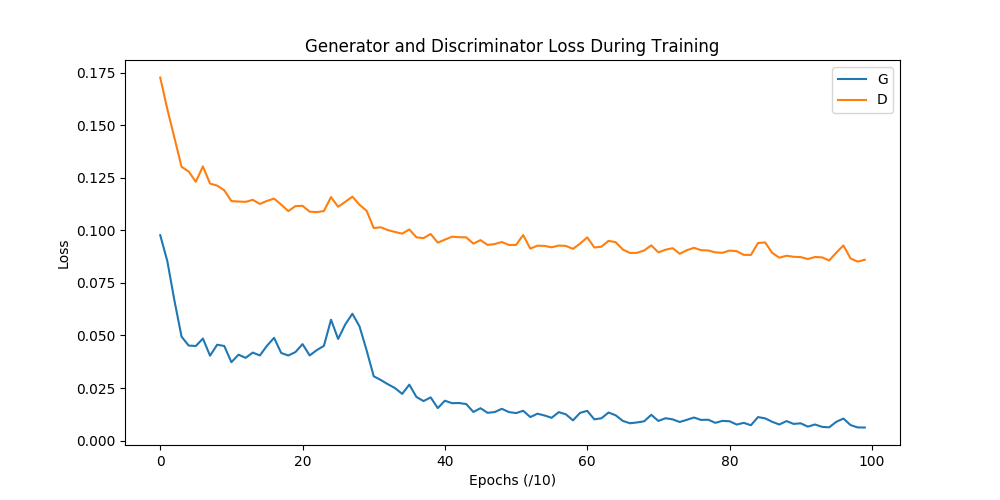
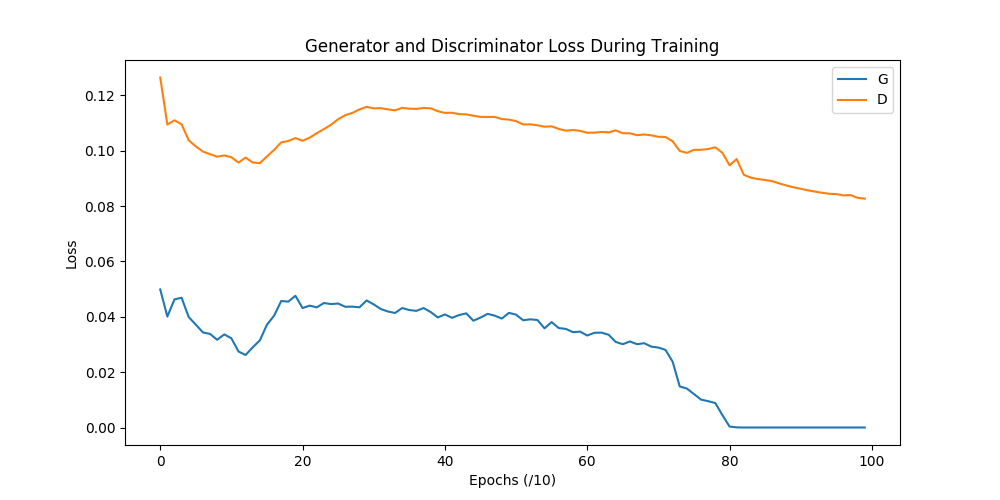
MàJ compte rendue

diff --git a/W5.md b/W5.md
@@ -69,24 +69,53 @@ Simplified Asynmétrique BEGAN
 Un réseau pour l'analyse (partie 1 de D), un réseau pour la génération (partager entre G et la seconde partie de D).
 
 __Résultats__ :
-  - BEGAN (gt-2): Image composée d'un unique jaune très claire (Bleu et vert à 255). 
+  - BEGAN : Image composée d'un unique jaune très claire (Bleu et vert à 255). 
 		Time=50m
 		
 __Conclusion__ :
   - Le code est à revoir.
   
-##### Test ADCGAN en 32x32 batchsize=32 epochs=100 lr=0.0001 
+##### Test ADCGAN en 32x32 batchsize=32 epochs=1000 lr=0.0004 
 Asynmétrique DCGAN
 Un réseau pour l'analyse (partie 1 de D), un réseau pour la génération (partager entre G et la seconde partie de D).
 
 __Résultats__ :
-  - DCGAN (gt-0): Les losses sont en diminution. Les images générer sont composer d'applats de couleurs et ne ressemble pas dutout au simpsons. 
-		Time=40m
+  - DCGAN (gt-0): Les losses sont en diminution et loss_G fini par être à 0. Les images générer sont composer d'applats de couleurs et ne ressemble pas dutout au simpsons puis finissent par être uniquement composer de bleu une fois que loss_G atteind 0. 
+		Time=6h40m
 		
 __Conclusion__ :
   - Il ce pourrait que pour ce premier test le nombre d'epochs soit trop faible (100).
+  - Àprès avoir poursuivi le test jusqu'à 1000 epochs on constate que plus rien n'est appris.
   
 ![W5_ADCGAN final](W5_archi_adcgan/final.png "ADCGAN")
   
+##### Test Mini en 32x32 batchsize=32 epochs=300 lr=0.0004
+Un générateur très simplifier, pour DCGAN, avec juste une couche de convolution cachées.
+
+__Résultats__ :
+  - BEGAN : 
+		Time=
+		
+__Conclusion__ :
+  - 
+  
+##### Test Dropout en 32x32 batchsize=32 epochs=300 lr=0.0004
+Evaluation de l'intèret de mettre du Dropout dans le discriminateur de DCGAN.
+__Résultats__ :
+  - BEGAN : 
+		Time=
+		
+__Conclusion__ :
+  - 
+
+##### Test Logits en 32x32 batchsize=32 epochs=300 lr=0.0004
+Utilisation de BCEWithLogits au lieux de BCE pour le calcul du loss.
+
+__Résultats__ :
+  - BEGAN : 
+		Time=
+		
+__Conclusion__ :
+  - 
   
 Next : Gamma bas pour éviter mode collapse.
